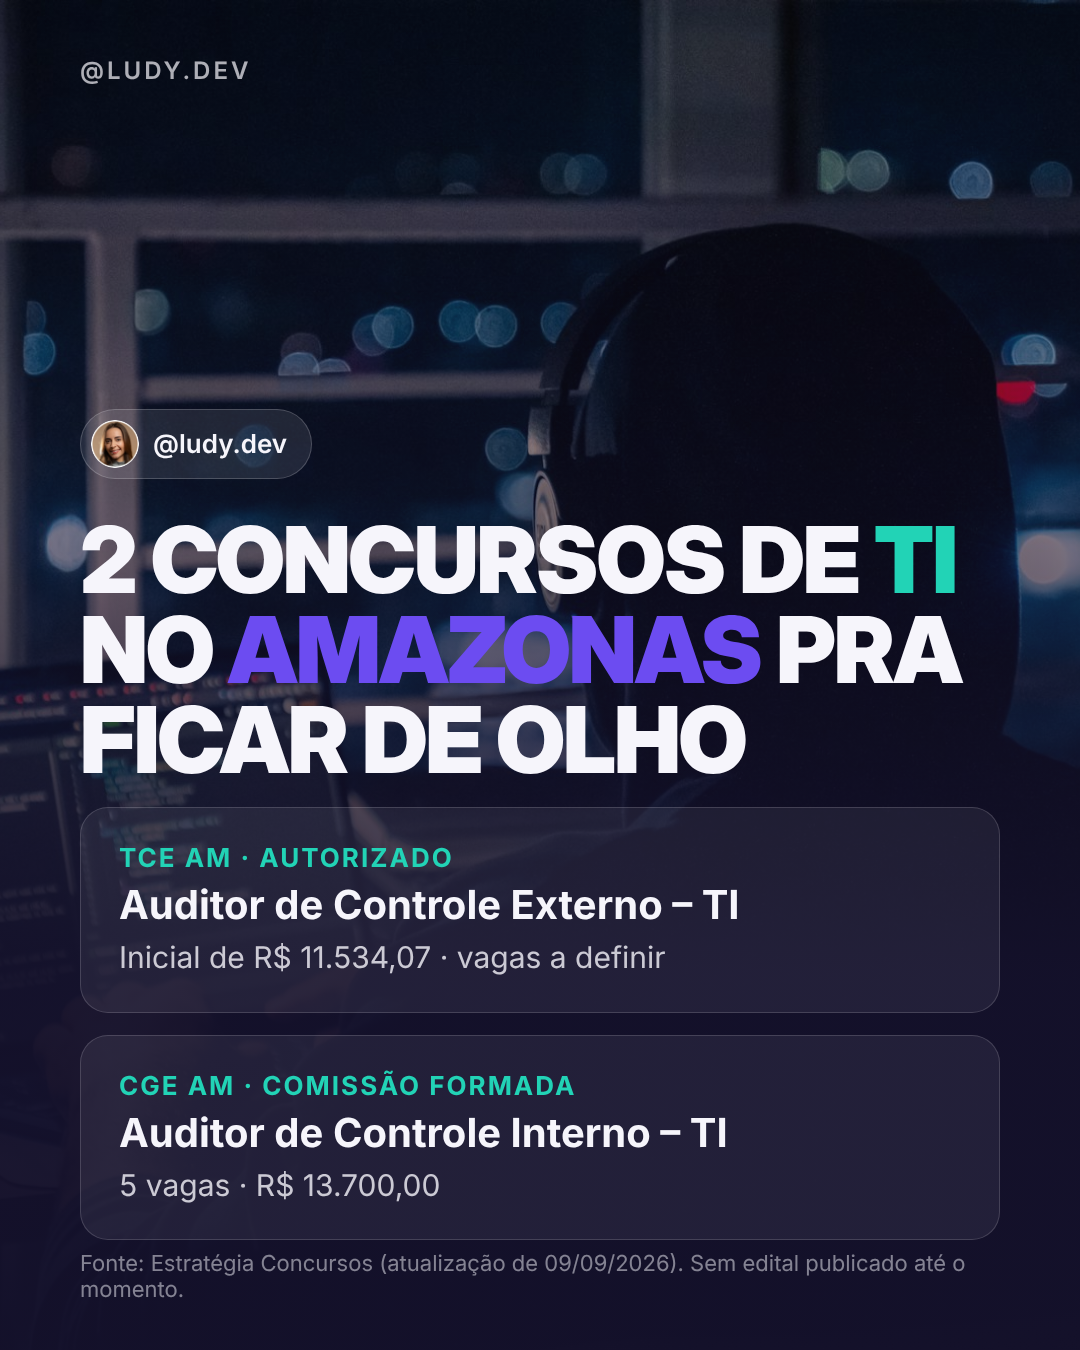
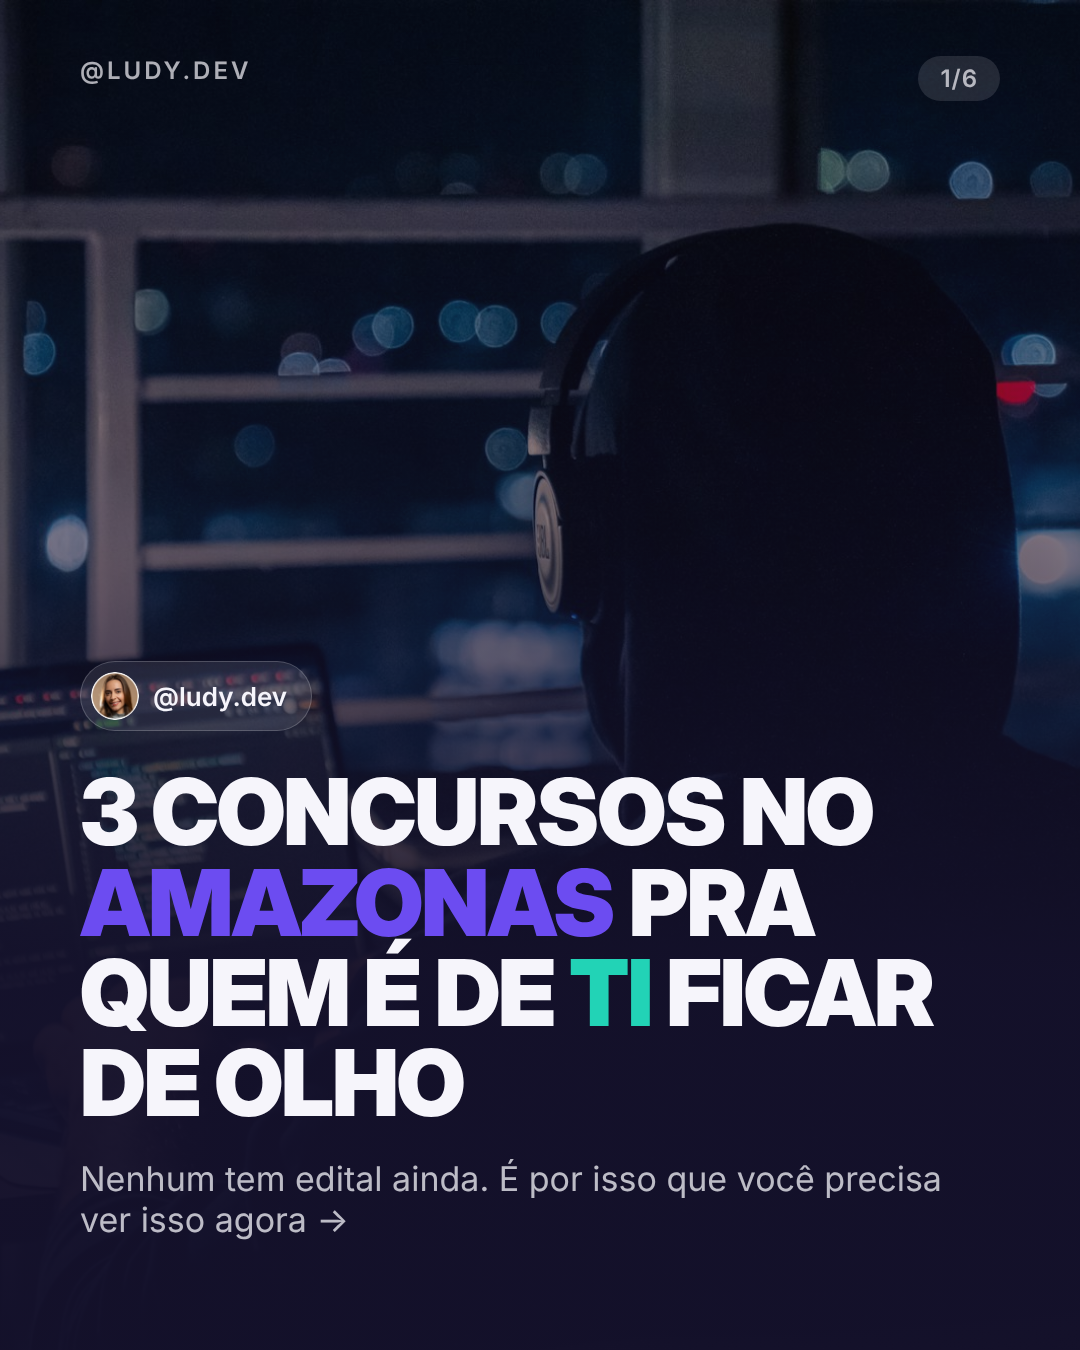
Post 1 de 18/10 vira carrossel do Amazonas com TJ-AM
Claude-Session: https://claude.ai/code/session_01PAmMNyTervBqrWDZUP7Uz7

diff --git a/_ferramentas/posts.py b/_ferramentas/posts.py
@@ -2,12 +2,16 @@ from render import *
 
 OUT = "/home/claude/posts/2026-10-18"
 
-# POST 1 — imagem única, estilo A (15h): concursos de TI no Amazonas
-p1 = [page_a(badge() + """
-<h1>2 concursos de <span class="c">TI</span> no <span class="v">Amazonas</span> pra ficar de olho</h1>
-<div class="card"><div class="k">TCE AM · autorizado</div><div class="t">Auditor de Controle Externo – TI</div><div class="d">Inicial de R$ 11.534,07 · vagas a definir</div></div>
-<div class="card"><div class="k">CGE AM · comissão formada</div><div class="t">Auditor de Controle Interno – TI</div><div class="d">5 vagas · R$ 13.700,00</div></div>
-""", photo="fotos/coding-noite-unsplash.jpg", src="Fonte: Estratégia Concursos (atualização de 09/09/2026). Sem edital publicado até o momento.")]
+# POST 1 — carrossel estilo A: concursos de TI no Amazonas (sem citar cursinhos concorrentes)
+T1 = 6
+p1 = [
+ page_a(badge() + '<h1>3 concursos no <span class="v">Amazonas</span> pra quem é de <span class="c">TI</span> ficar de olho</h1><div class="sub">Nenhum tem edital ainda. É por isso que você precisa ver isso agora →</div>', 1, T1, photo="fotos/coding-noite-unsplash.jpg"),
+ page_a('<h2><span class="c">TJ-AM</span> · concurso anunciado</h2><div class="card"><div class="k">O que já se sabe</div><div class="t">400 vagas previstas</div><div class="d">Analista e Assistente Judiciário · banca a definir</div></div><div class="card"><div class="k">E a TI?</div><div class="t">Área ainda não confirmada</div><div class="d">No último concurso (2019) houve vagas de informática e programação</div></div>', 2, T1, src="Fonte: Qconcursos (atualização de 17/06/2026)."),
+ page_a('<h2><span class="c">TCE-AM</span> · concurso autorizado</h2><div class="card"><div class="k">Cargo</div><div class="t">Auditor de Controle Externo – TI</div><div class="d">Vagas ainda a definir</div></div><div class="card"><div class="k">Remuneração inicial</div><div class="t">R$ 11.534,07</div></div>', 3, T1),
+ page_a('<h2><span class="c">CGE-AM</span> · comissão formada</h2><div class="card"><div class="k">Cargo</div><div class="t">Auditor de Controle Interno</div><div class="d">Até 50 vagas, sendo 5 para TI</div></div><div class="card"><div class="k">Remuneração</div><div class="t">R$ 13.700,00</div><div class="d">Banca ainda não definida</div></div>', 4, T1, src="Fonte: JC Concursos (atualização de 18/09/2026)."),
+ page_a('<h2>Sem edital = <span class="v">vantagem</span> pra quem começa agora</h2><p>Quando o edital sai, o prazo até a prova costuma ser curto. Quem já tem a base de TI, português e legislação <b>só ajusta a rota</b>.</p>', 5, T1),
+ page_a('<h2>Quer um <span class="c">plano</span> pra chegar pronta(o)?</h2><p>É pra isso que existe o método <b>GPS</b>. Comenta <b class="c">NORTE</b> que eu te mando o link do meu grupo no WhatsApp.</p>', 6, T1),
+]
 
 # POST 2 — carrossel estilo A (17h): TI em tribunal
 T2 = 6
